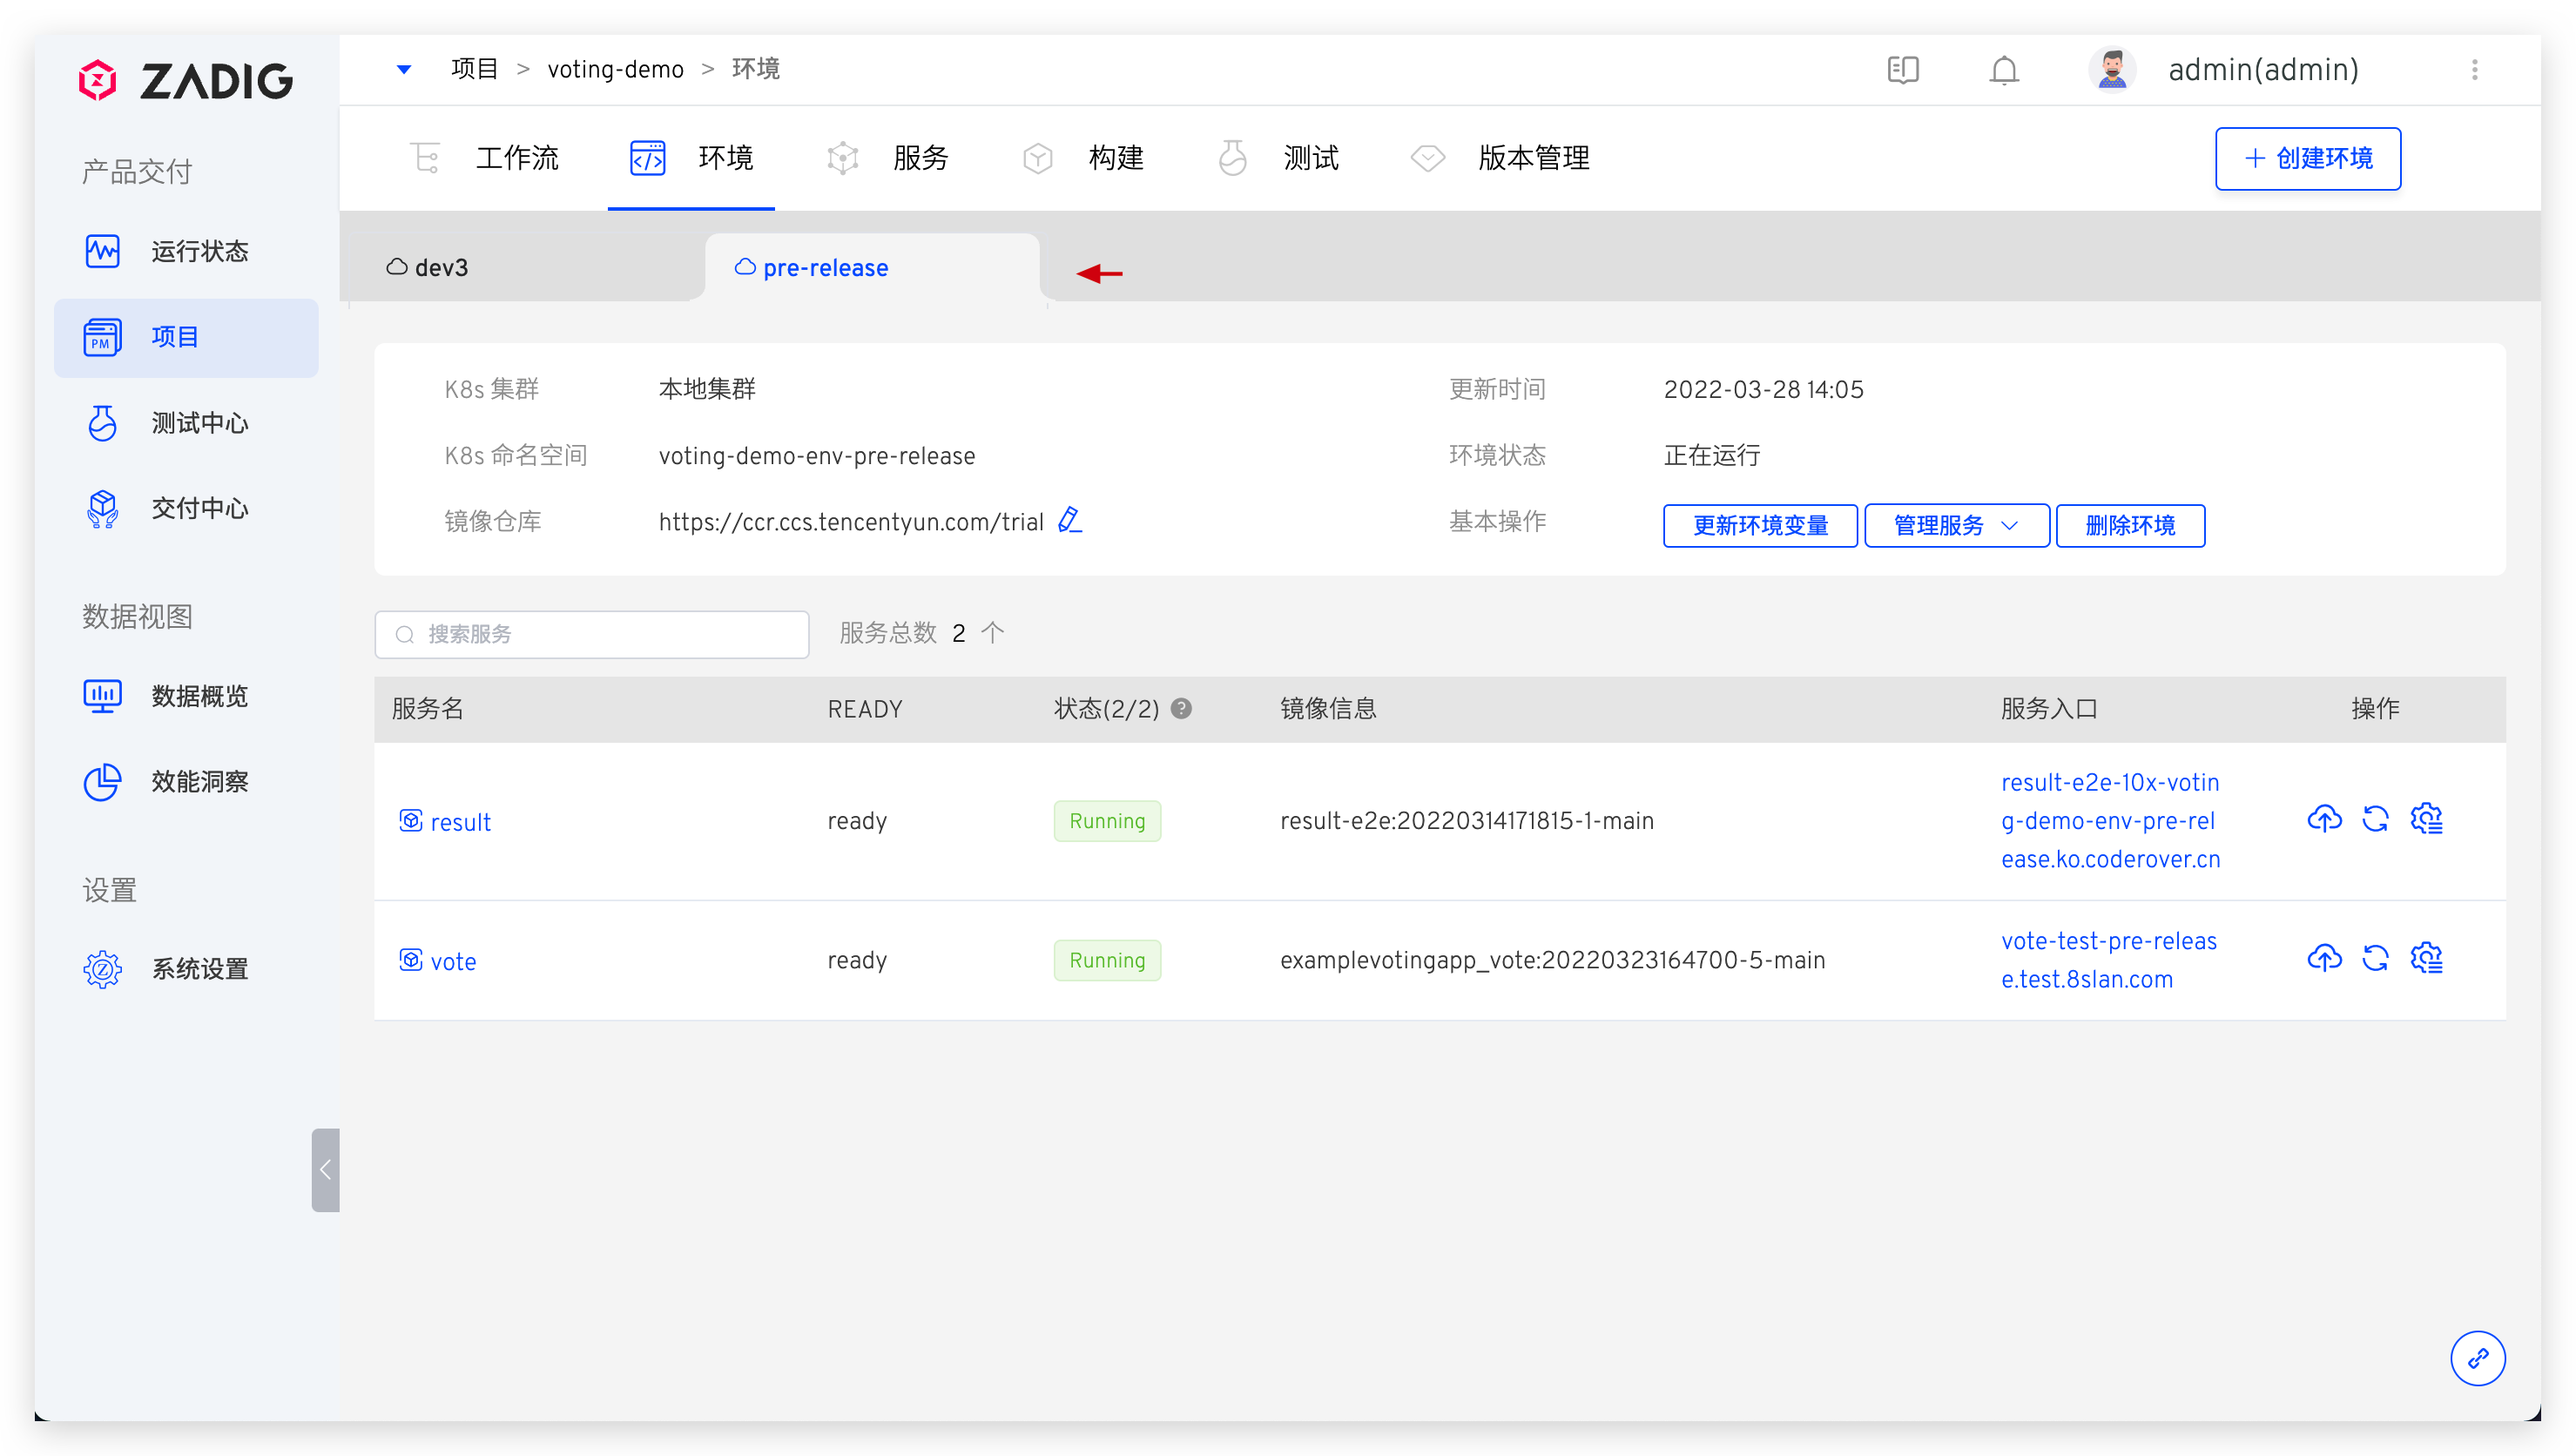
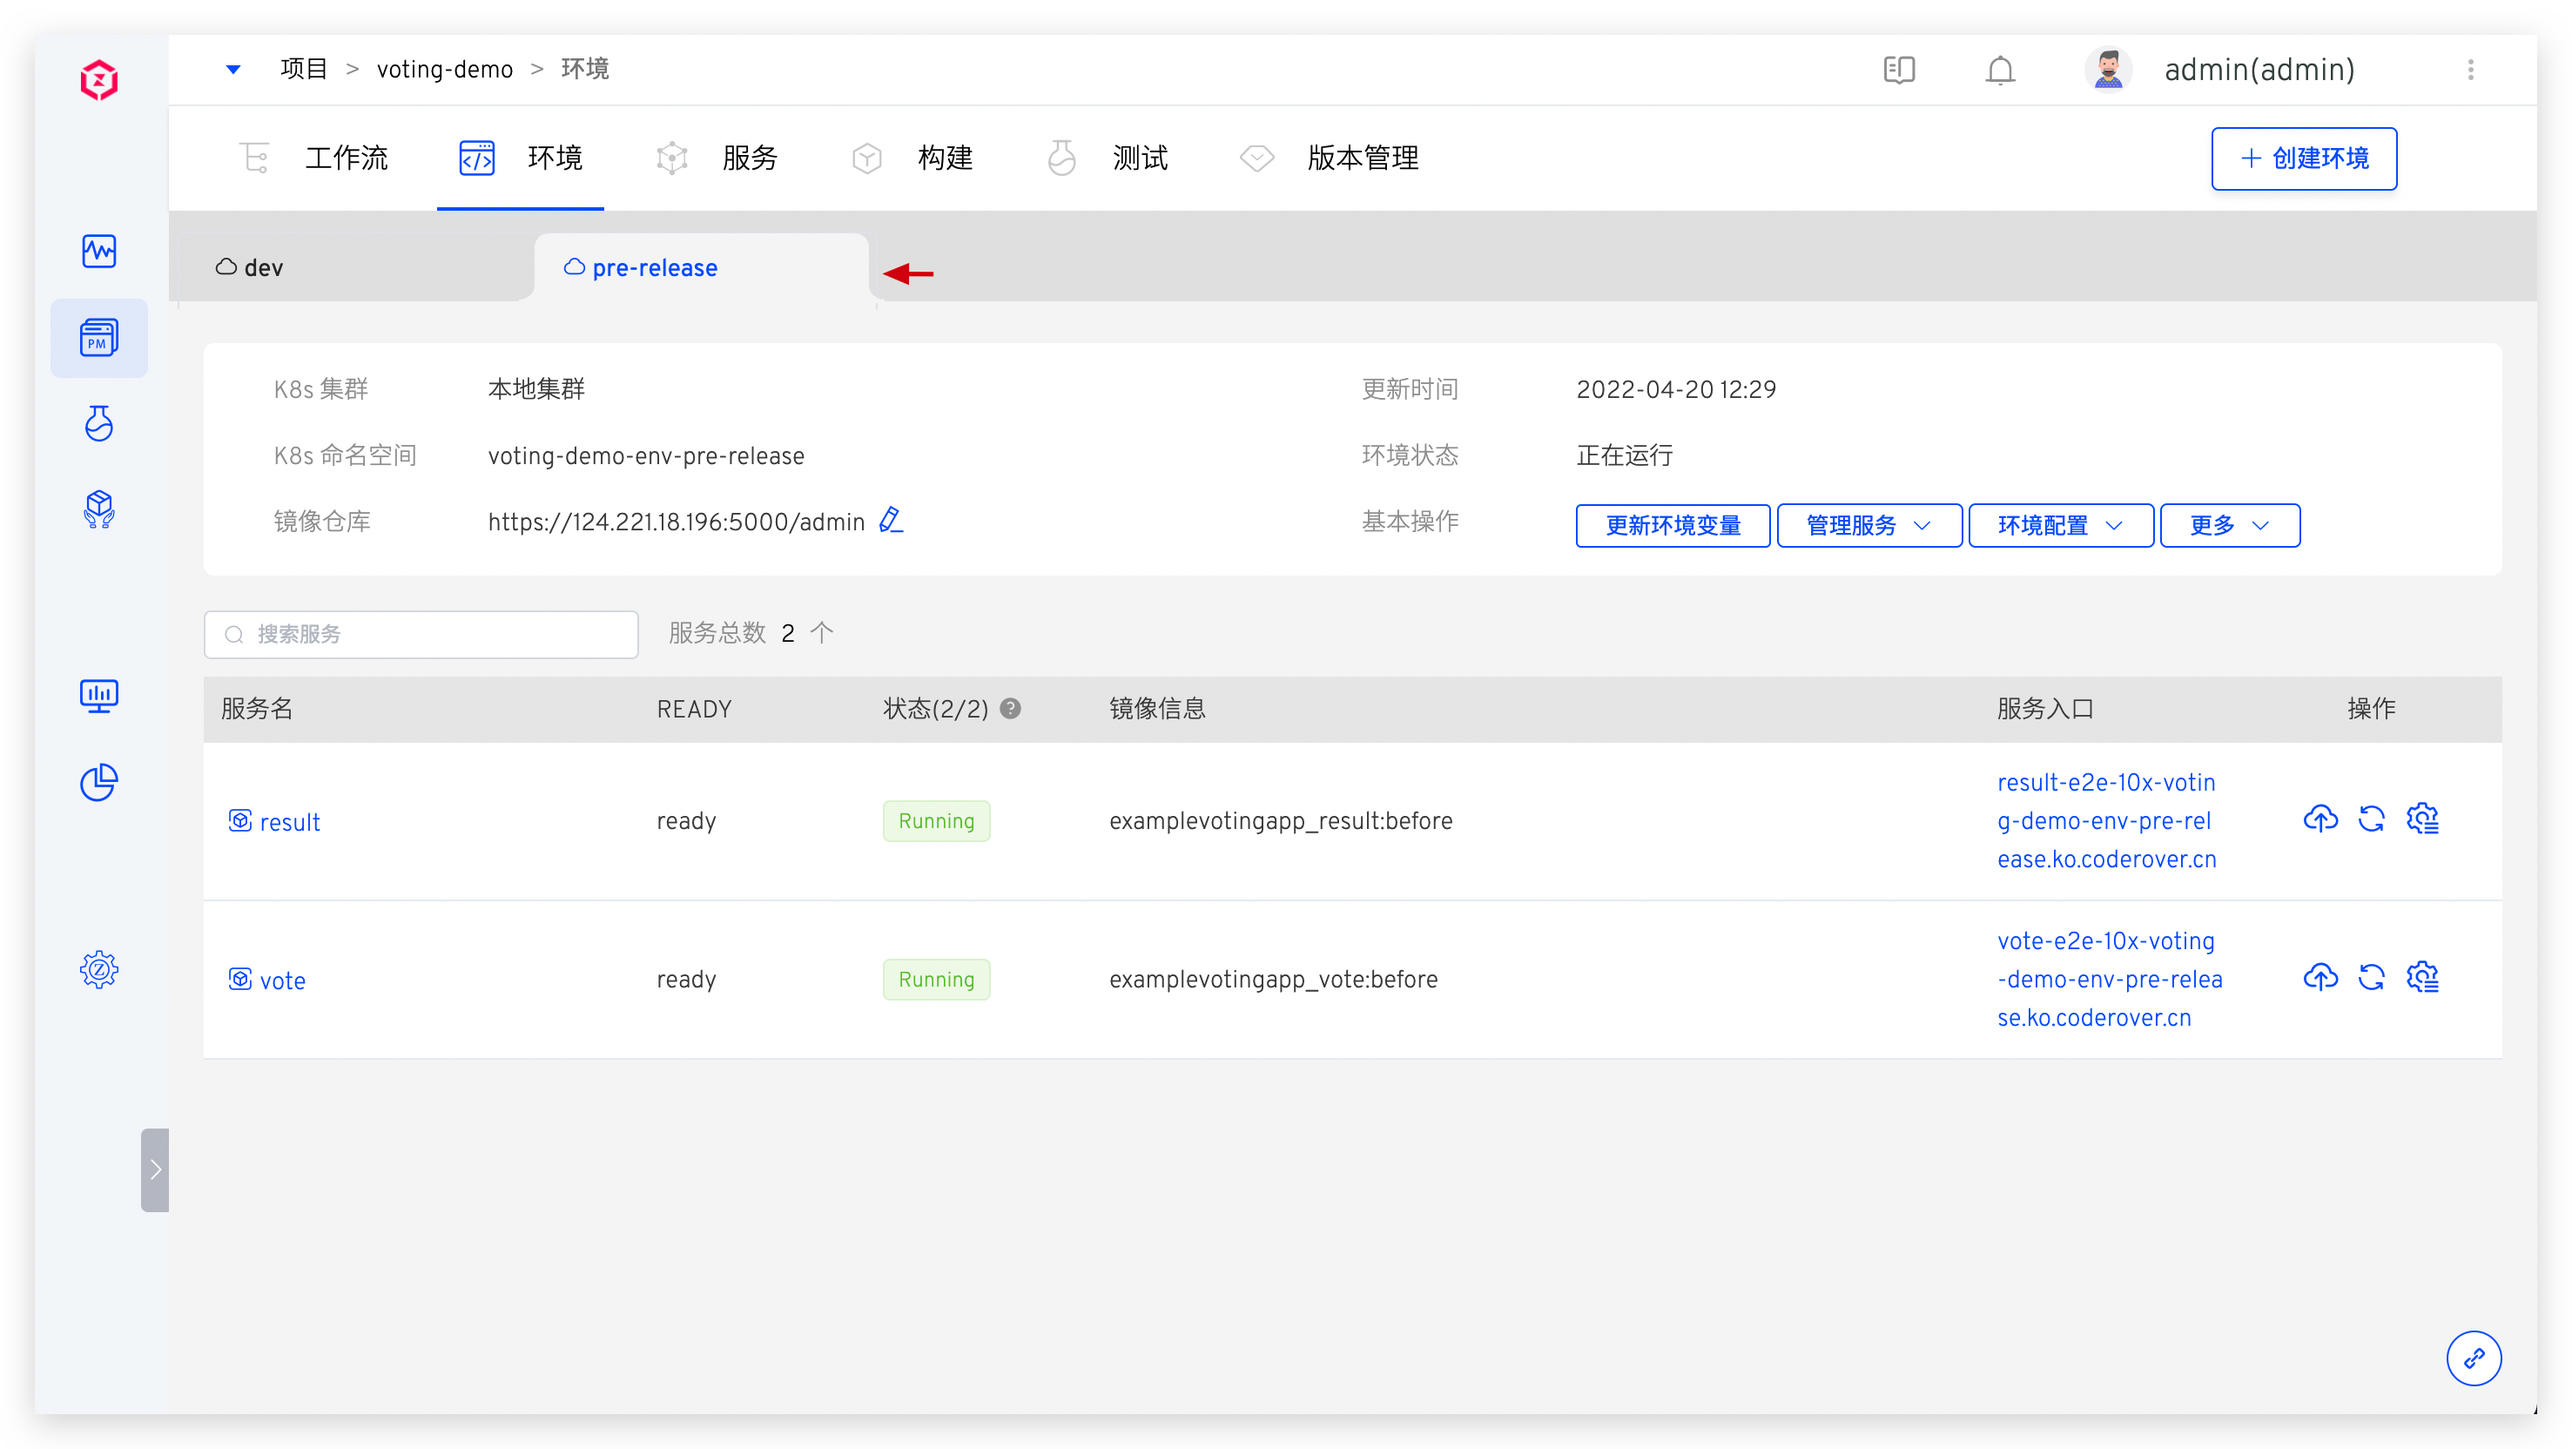
environment config management for Helm Chart project

diff --git a/dev/04.项目/03.环境/02.k8s_helm_environment.md b/dev/04.项目/03.环境/02.k8s_helm_environment.md
@@ -84,18 +84,78 @@ permalink: /dev/project/env/helm/chart/
 
 环境操作包括：
 
-- `更新环境变量`：包括更新全局服务变量和服务变量。
-- `更新环境`：当前项目-服务中的 Helm Chart 有增/删/内容变更时，环境中会自动出现更新环境按钮。
-- `删除环境`：删除当前创建的环境，环境删除后不可恢复。
+- `更新环境变量`：包括更新全局服务变量和服务变量，细节描述请阅读[更新环境变量](#更新环境变量)
+- `管理服务`：包括[添加服务](#添加服务)、[更新服务](#更新服务)、[删除服务](#删除服务)
+- `环境配置`：为环境配置 Ingress、ConfigMap、Secret、PVC 资源，细节描述请阅读[环境配置管理](#环境配置管理)
+- `删除环境`：删除当前创建的环境，环境删除后不可恢复
+
+#### 更新环境变量
+
+点击`更新环境变量`，可修改全局服务变量以及每一个服务的服务变量：
+
+- 可手动输入 values 内容或从代码库导入 values 文件来修改全局服务变量，修改后对当前环境下的所有服务都生效
+- 对单一某个服务变量的修改以及其和全局服务变量的关系可阅读：[服务变量](#服务变量)
+- 选择服务修改其 values 内容后，可点击预览查看修改后的效果
+
+![更新 Helm Chart 环境变量](../_images/update_helm_env_var.png)
+
+#### 添加服务
+
+点击`管理服务` -> `添加服务` -> 选择要添加的服务，可按需修改其 values 内容 -> 点击`确定`即可将新的服务添加到当前环境中。
+
+![添加 Helm Chart 服务](../_images/add_helm_chart_service.png)
+
+#### 更新服务
+
+点击`管理服务` -> `更新服务` -> 选择要更新的服务，可按需修改其 values 内容 -> 点击`确定`即可对环境中的服务进行更新。
+
+> 当服务配置有变化时（比如在服务管理中重新同步了从代码库导入的服务）才可以对该服务进行更新<br>
+> 若更新服务时不修改其 values 内容，则会使用服务配置中的 values 来修改该服务
+
+![更新 Helm Chart 服务](../_images/update_helm_chart_service.png)
+
+#### 删除服务
+
+点击`管理服务` -> `删除服务` -> 选择要删除的服务 -> 点击`确定`即可将该服务从当前环境中删除。
+
+![删除 Helm Chart 服务](../_images/delete_helm_chart_service.png)
+
+#### 环境配置管理
+
+可对环境中的 Ingress、ConfigMap、Secret、PVC 配置进行操作，以 Secret 配置为例说明如下。<br>
+
+**查看 Secret 配置**
+
+点击基本操作中的`环境配置` -> `Secret`，可查看当前环境中的 Secret 配置列表。
+
+![查看环境配置](../_images/show_env_config_in_helm_project.png)
+![查看环境 Secret 配置](../_images/show_secret_config_in_env_in_helm_project.png)
+
+**基本操作**
+
+- 添加配置：点击`添加`按钮，添加新的 Secret 配置。可手动输入 K8s YAML 文件内容，也可以选择从代码库导入 K8s YAML 文件。
+
+![添加 Secret 配置](../_images/create_secret_config_in_helm_project.png)
+
+- 查看配置详情：点击`查看`按钮可查看 Secret 配置的具体内容。
+
+![查看 Secret 配置](../_images/show_secret_config_in_helm_project.png)
+
+- 编辑配置：点击`编辑`按钮修改 Secret 配置，支持直接修改或者从代码库导入 K8s YAML 文件来修改。
+
+![编辑 Secret 配置](../_images/edit_secret_config_in_helm_project.png)
+
+- 版本比较与回滚：点击`历史版本`按钮，选择两个版本后可对比版本之间的差异，点击`回滚`按钮可快速回滚当前环境中的 Secret 配置。
+
+![diff Secret 版本](../_images/diff_secret_config_in_helm_project.png)
+
+- 删除配置：点击`删除`按钮可删除环境中的 Secret 配置。需要注意删除配置后可能会造成环境中的服务无法正常运行，请确认无不良影响后再操作。
+
+![删除 Secret 配置](../_images/delete_secret_config_in_helm_project.png)
 
 ### 服务详情
 
 在服务列表中点击具体的服务可查看该服务的更多信息，可以对服务进行服务重启、服务伸缩、配置管理、更新镜像等操作。具体请阅读[服务详情](/dev/project/env/service/)。
-
-## 更新环境
-当环境可更新时，点击基本操作中的`更新环境`即可对环境进行更新。
-
-![更新 Helm Chart 环境](../_images/helm_chart_env_updateble.png)
 
 ## 删除环境
 点击基本操作中的`删除环境`按钮并输入环境名即可删除环境。

diff --git a/dev/04.项目/03.环境/01.k8s_environment.md b/dev/04.项目/03.环境/01.k8s_environment.md
@@ -67,17 +67,17 @@ permalink: /dev/project/env/k8s/
 - `运行不稳定`：环境中一部分服务处于 Unstable 状态，可能的情况有两种：
 	- 容器服务出现了问题。
 	- 容器服务正在进行更新操作，例如更新镜像，会出现短时间的服务 Unstable，当更新过程完成之后，服务状态会恢复为 Running。
-- `环境可更新`：当已创建的环境对应的环境模板有更新之后，环境处于可更新状态，有读写权限的用户可以看到`更新环境`按钮，点击按钮可对环境进行模板和配置的更新。
 
 ### 基本操作
 
 环境操作包括：
 
-- `更新环境变量`：对环境中的引用变量进行更新。
-- `管理服务`：包括添加服务、更新服务和删除服务。
+- `更新环境变量`：对环境中的引用变量进行更新，细节描述请阅读[更新环境变量](#更新环境变量)
+- `管理服务`：包括[添加服务](#添加服务)、[更新服务](#更新服务)、[删除服务](#删除服务)
+- `环境配置`：为环境配置 Ingress、ConfigMap、Secret、PVC 资源，细节描述请阅读[环境配置管理](#环境配置管理)
 - `删除环境`：删除当前环境，环境删除后不可恢复。
 
-**更新环境变量**
+#### 更新环境变量
 
 更新服务中环境变量的值。
 
@@ -89,23 +89,56 @@ permalink: /dev/project/env/k8s/
 - `Value`：环境变量的值。
 - `关联服务`：服务配置中有使用到该环境变量的服务。
 
-**添加服务**
+#### 添加服务
 
 选择要添加的服务，填写服务配置中的自定义环境变量后点击确定即可将服务添加进当前环境中。
 
 ![添加服务](../_images/add_service_in_k8s_env.png)
 
-**更新服务**
+#### 更新服务
 
 选择当前环境中已有的服务，对其进行更新：包括修改服务配置中的环境变量值以及同步更新最新服务配置。
 
 ![更新服务](../_images/update_service_in_k8s_env.png)
 
-**删除服务**
+#### 删除服务
 
 将环境中的服务从当前环境中删除。
 
 ![删除服务](../_images/delete_service_in_k8s_env.png)
+
+#### 环境配置管理
+
+可对环境中的 Ingress、ConfigMap、Secret、PVC 配置进行操作，以 Secret 配置为例说明如下。<br>
+
+**查看 Secret 配置**
+
+点击基本操作中的`环境配置` -> `Secret`，可查看当前环境中的 Secret 配置列表，以及有使用到 Secret 配置的服务集合。
+
+![查看环境配置](../_images/show_env_config.png)
+![查看环境 Secret 配置](../_images/show_secret_config_in_env.png)
+
+**基本操作**
+
+- 添加配置：点击`添加`按钮，添加新的 Secret 配置。可手动输入 K8s YAML 文件内容，也可以选择从代码库导入 K8s YAML 文件。
+
+![添加 Secret 配置](../_images/create_secret_config.png)
+
+- 查看配置详情：点击`查看`按钮可查看 Secret 配置的具体内容。
+
+![查看 Secret 配置](../_images/show_secret_config.png)
+
+- 编辑配置：点击`编辑`按钮修改 Secret 配置，可按需选择修改 Secret 配置后是否重启与之有关联的服务。
+
+![编辑 Secret 配置](../_images/edit_secret_config.png)
+
+- 版本比较与回滚：点击`历史版本`按钮，选择两个版本后可对比版本之间的差异，点击`回滚`按钮可快速回滚当前环境中的 Secret 配置。
+
+![diff Secret 版本](../_images/diff_secret_config.png)
+
+- 删除配置：点击`删除`按钮可删除环境中的 Secret 配置。需要注意删除配置后可能会造成关联服务无法正常运行，请确认无不良影响后再操作。
+
+![删除 Secret 配置](../_images/delete_secret_config.png)
 
 ### 服务详情
 
